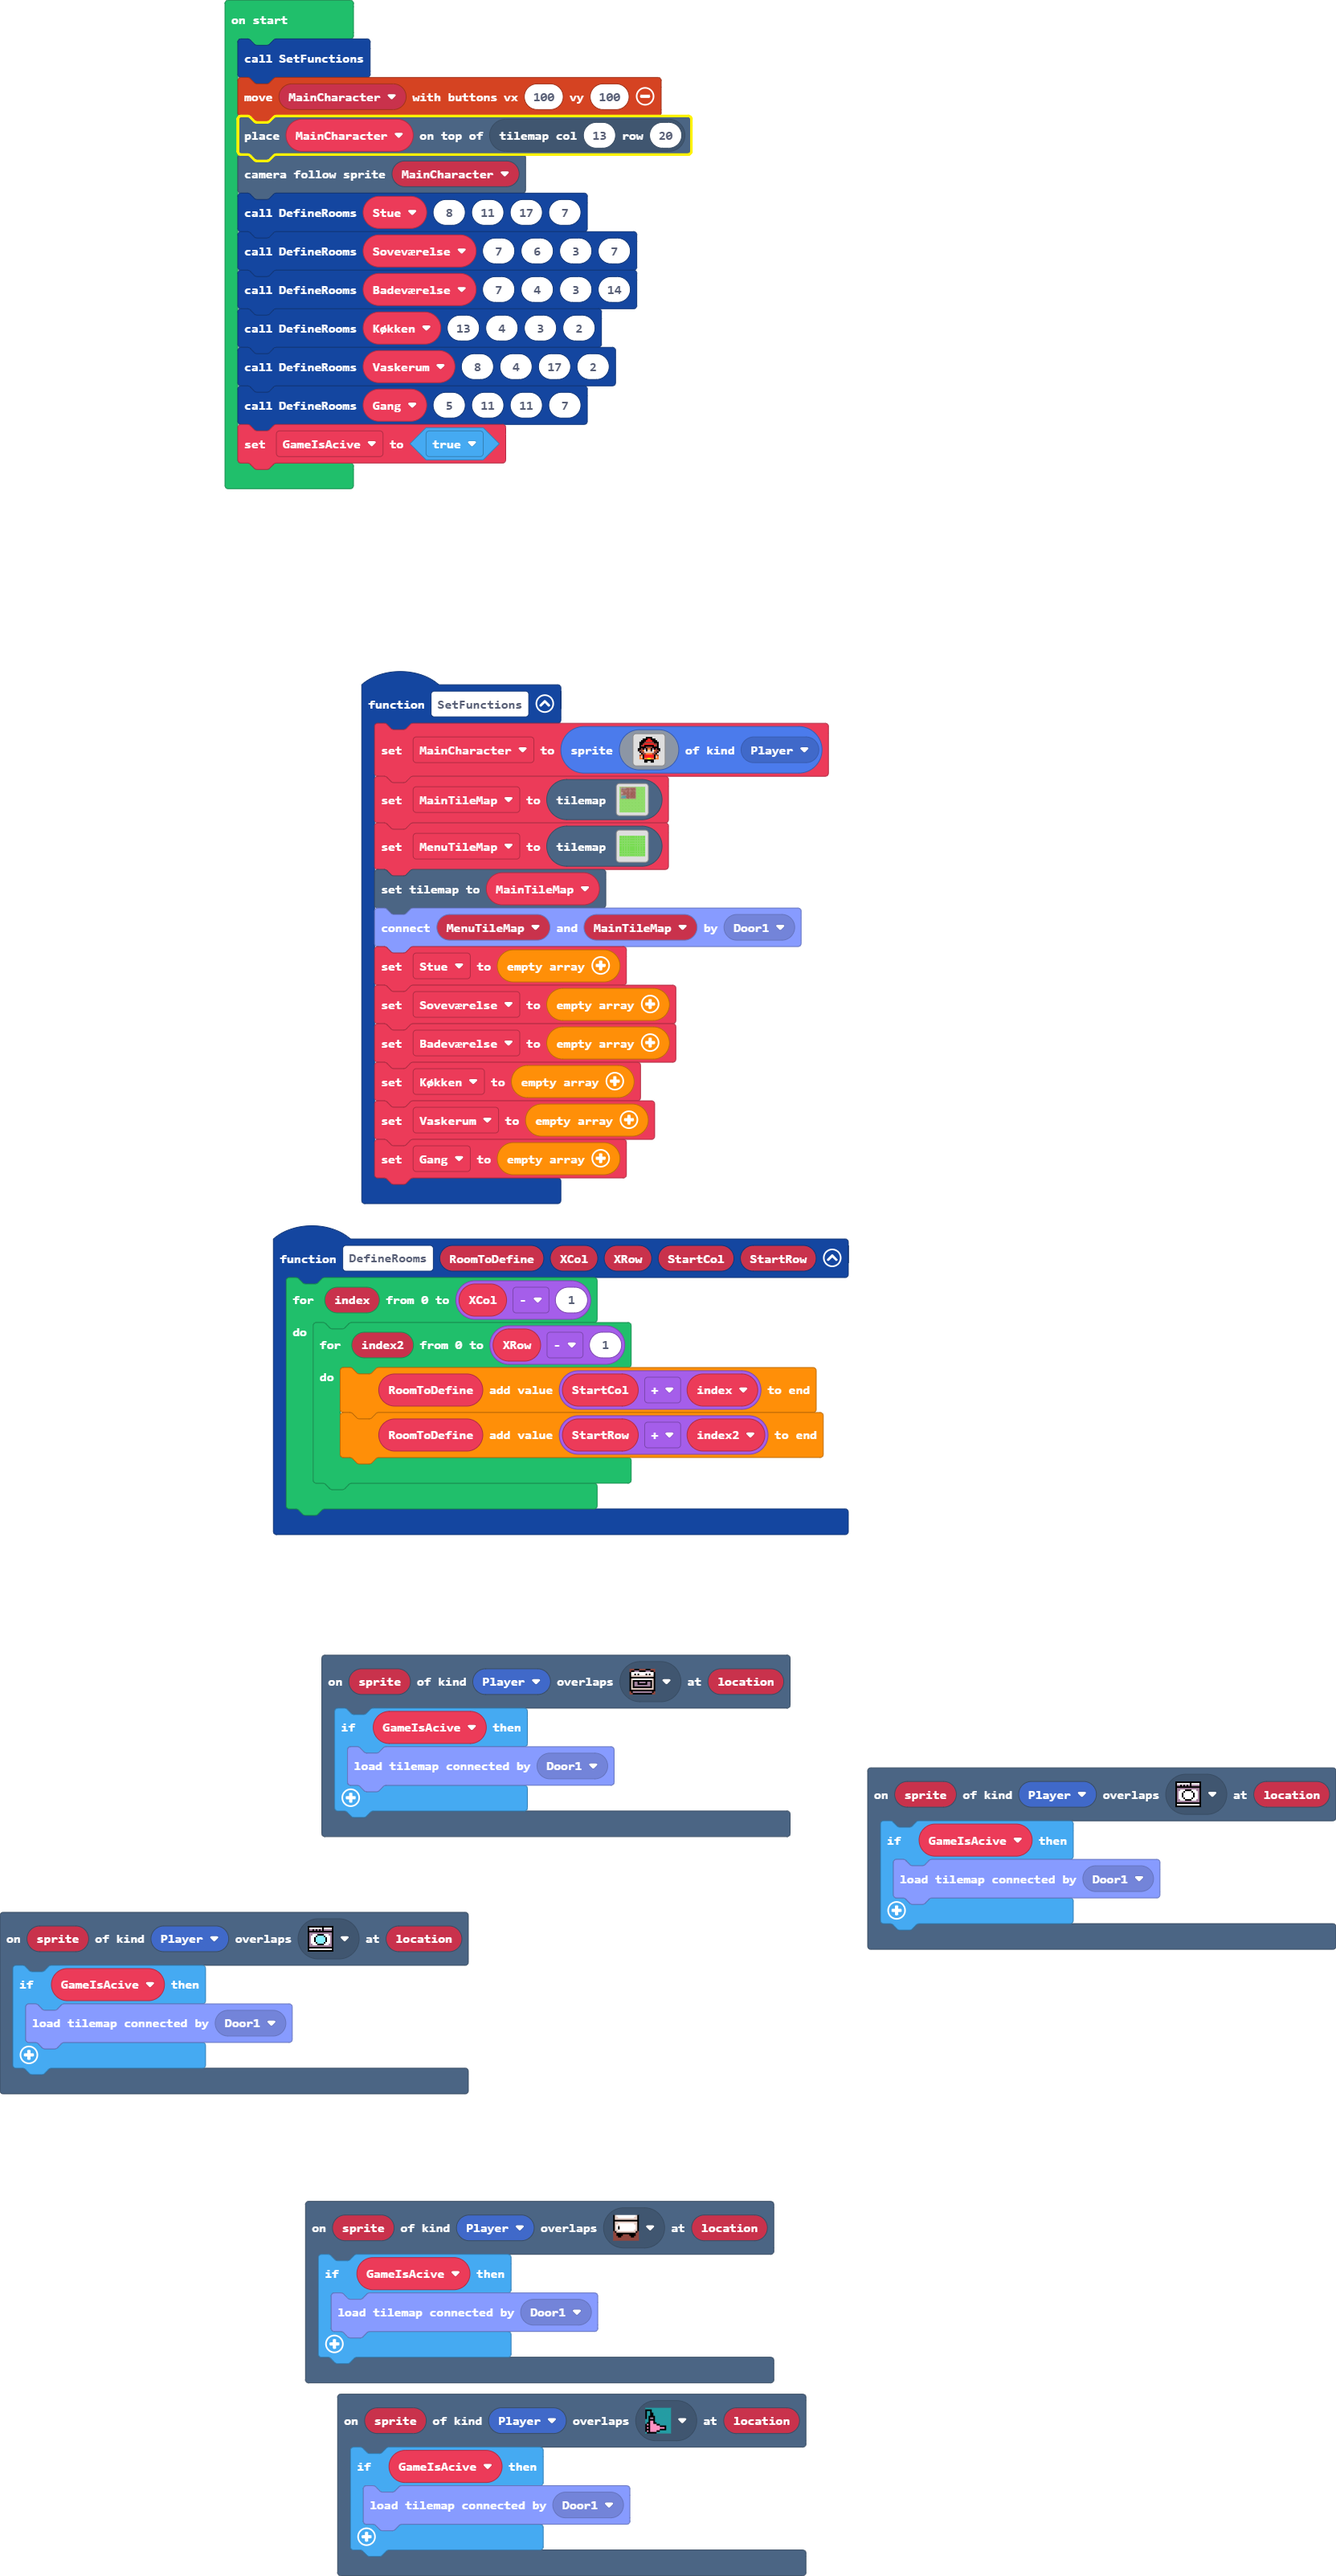
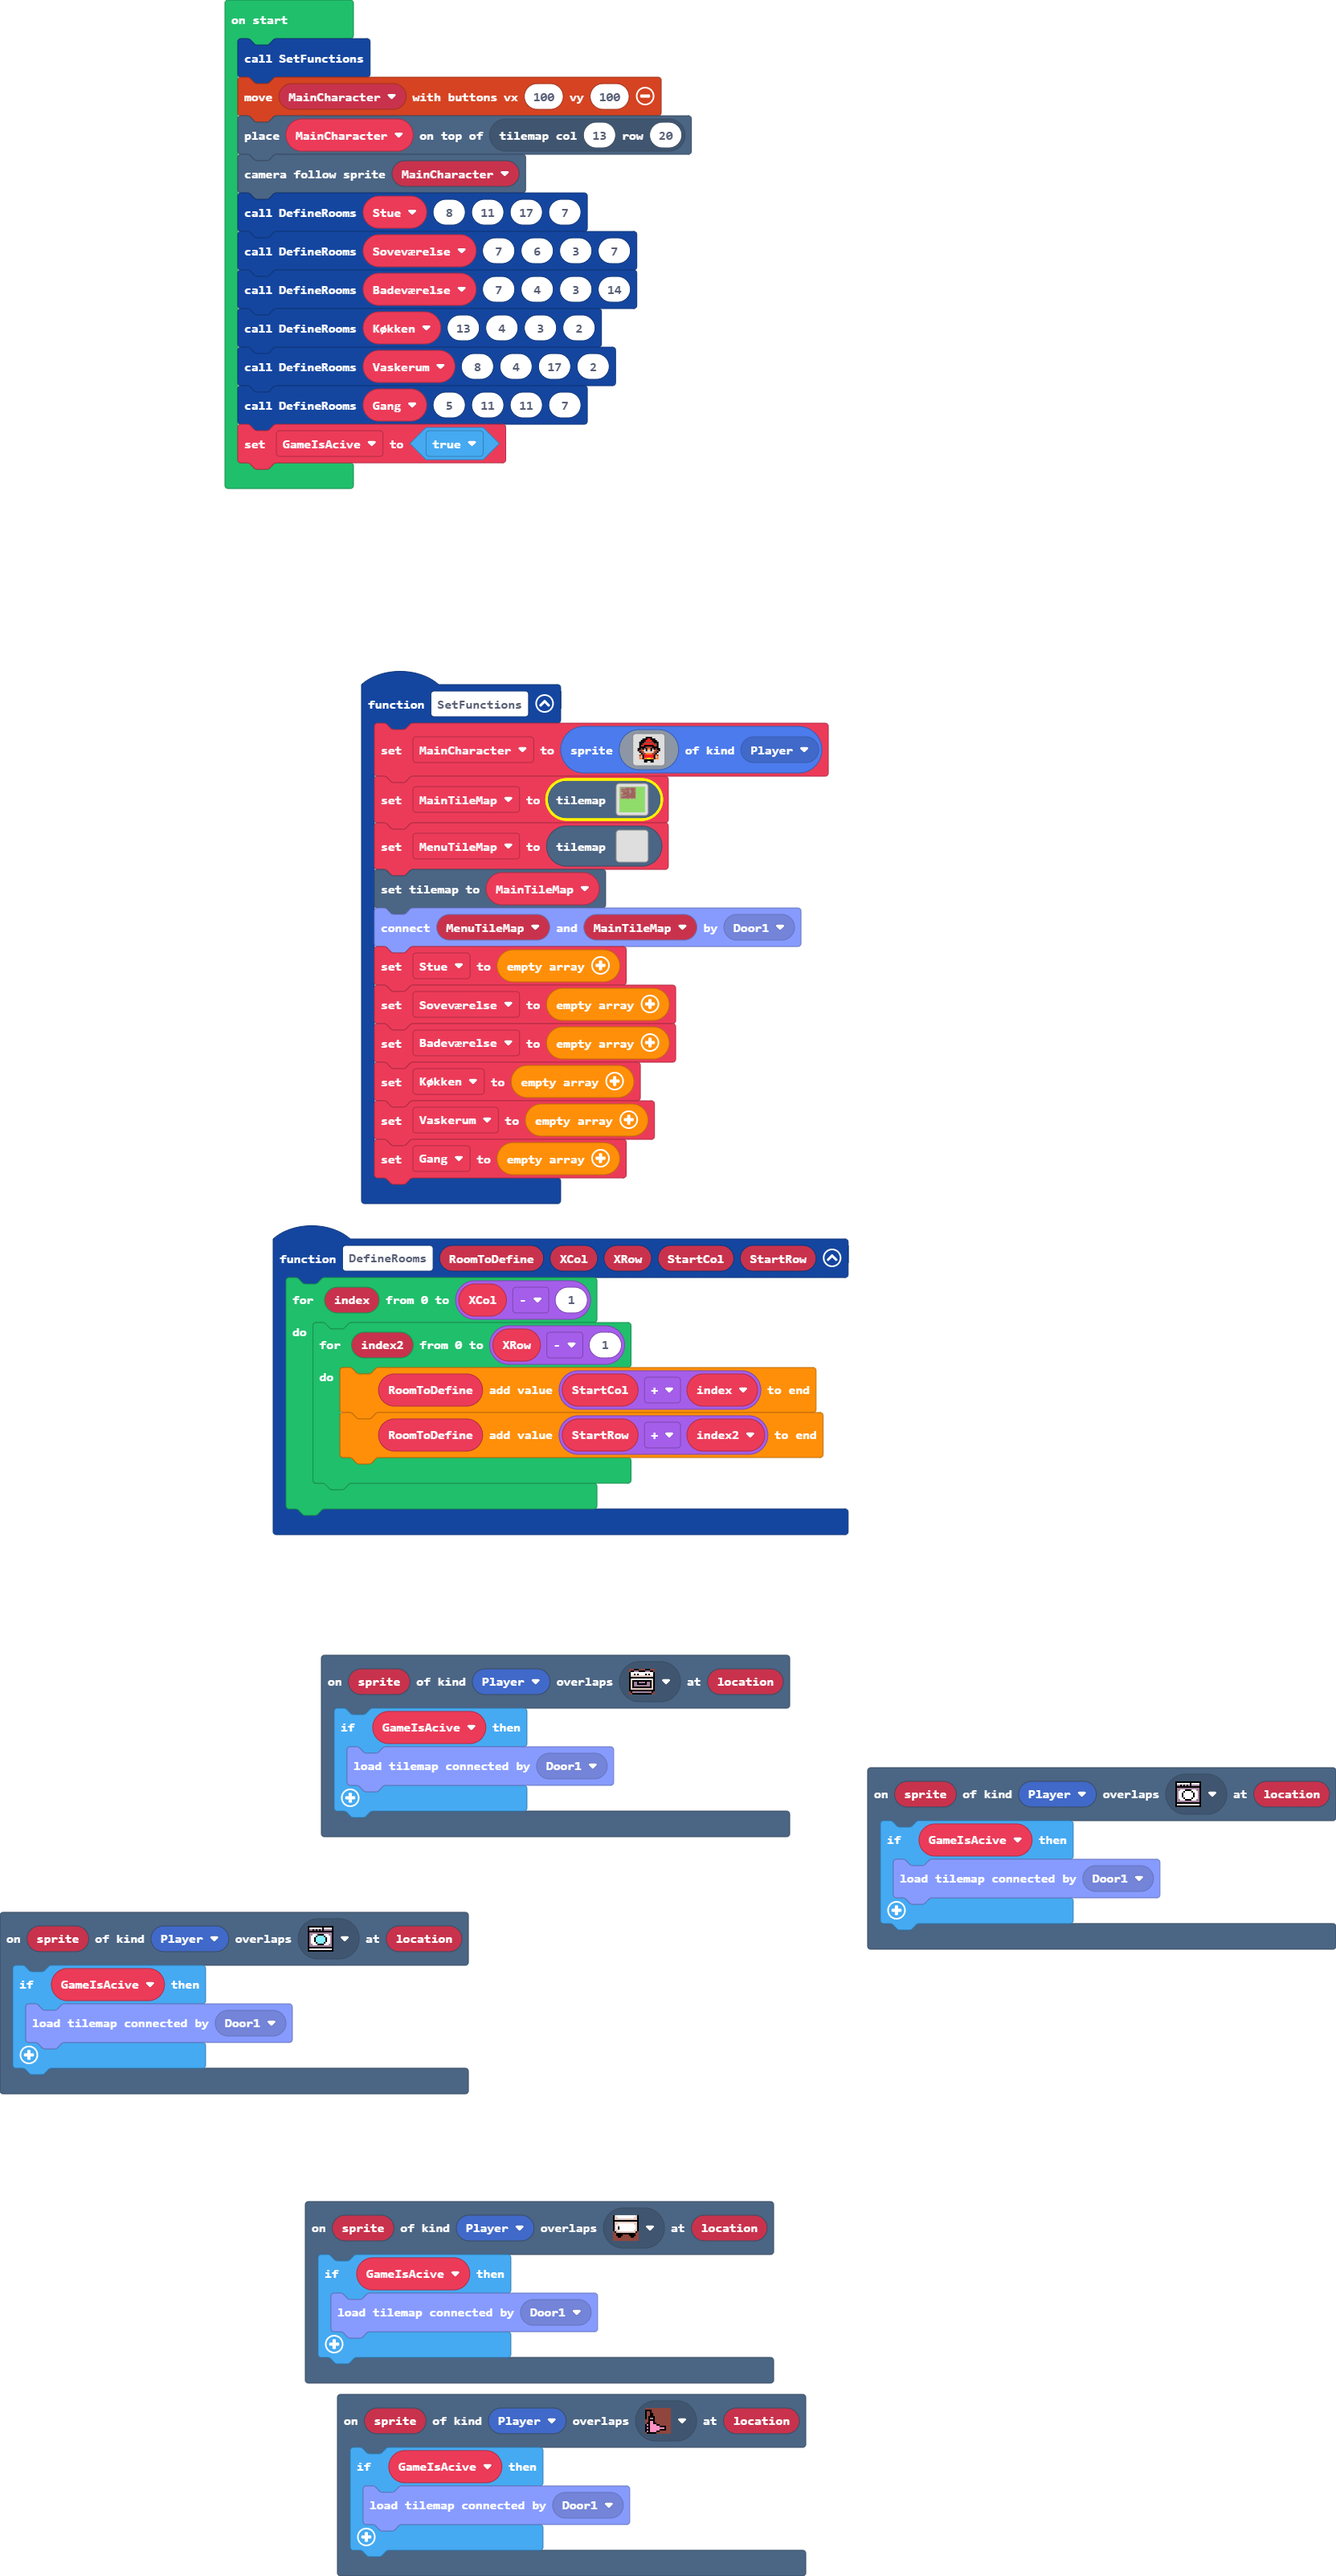
Update main.blocks, main.ts, tilemap.g.jres, tilemap.g.ts

diff --git a/tilemap.g.ts b/tilemap.g.ts
@@ -204,6 +204,25 @@ namespace myTiles {
 ........................................
 ........................................
 `, [myTiles.transparency16,sprites.castle.tileGrass1,myTiles.tile1,myTiles.tile2,myTiles.tile3,myTiles.tile4,myTiles.tile10,myTiles.tile11,myTiles.tile14,myTiles.tile15,myTiles.tile16,myTiles.tile17,myTiles.tile18,myTiles.tile20,myTiles.tile21,myTiles.tile22,myTiles.tile25,myTiles.tile19,myTiles.tile23,myTiles.tile24,myTiles.tile26,myTiles.tile28,myTiles.tile27,myTiles.tile35,myTiles.tile36,myTiles.tile37,myTiles.tile34,myTiles.tile38,myTiles.tile39,myTiles.tile41,myTiles.tile42,myTiles.tile43,myTiles.tile44,myTiles.tile45,myTiles.tile46,myTiles.tile47,myTiles.tile48,myTiles.tile50,myTiles.tile52,myTiles.tile53,myTiles.tile51,myTiles.tile54,myTiles.tile55,myTiles.tile56,myTiles.tile57,myTiles.tile58,myTiles.tile59,myTiles.tile63,myTiles.tile64,myTiles.tile12,myTiles.tile60,myTiles.tile61], TileScale.Sixteen);
+            case "level4":
+            case "level4":return tiles.createTilemap(hex`1000100000000000000000000000000000000000000000000000000000000000000000000000000000000000000000000000000000000000000000000000000000000000000000000000000000000000000000000000000000000000000000000000000000000000000000000000000000000000000000000000000000000000000000000000000000000000000000000000000000000000000000000000000000000000000000000000000000000000000000000000000000000000000000000000000000000000000000000000000000000000000000000000000000000000000000000000000000000000000000000000000000000000000000000000000000000000`, img`
+. . . . . . . . . . . . . . . . 
+. . . . . . . . . . . . . . . . 
+. . . . . . . . . . . . . . . . 
+. . . . . . . . . . . . . . . . 
+. . . . . . . . . . . . . . . . 
+. . . . . . . . . . . . . . . . 
+. . . . . . . . . . . . . . . . 
+. . . . . . . . . . . . . . . . 
+. . . . . . . . . . . . . . . . 
+. . . . . . . . . . . . . . . . 
+. . . . . . . . . . . . . . . . 
+. . . . . . . . . . . . . . . . 
+. . . . . . . . . . . . . . . . 
+. . . . . . . . . . . . . . . . 
+. . . . . . . . . . . . . . . . 
+. . . . . . . . . . . . . . . . 
+`, [], -Infinity);
         }
         return null;
     })

diff --git a/main.ts b/main.ts
@@ -41,7 +41,7 @@ function SetFunctions () {
         . . . . . f f . . f f . . . . . 
         `, SpriteKind.Player)
     MainTileMap = tilemap`level`
-    MenuTileMap = tilemap`MenuTilemap`
+    MenuTileMap = tilemap`level4`
     tiles.setCurrentTilemap(MainTileMap)
     tileUtil.connectMaps(MenuTileMap, MainTileMap, MapConnectionKind.Door1)
     Stue = []
